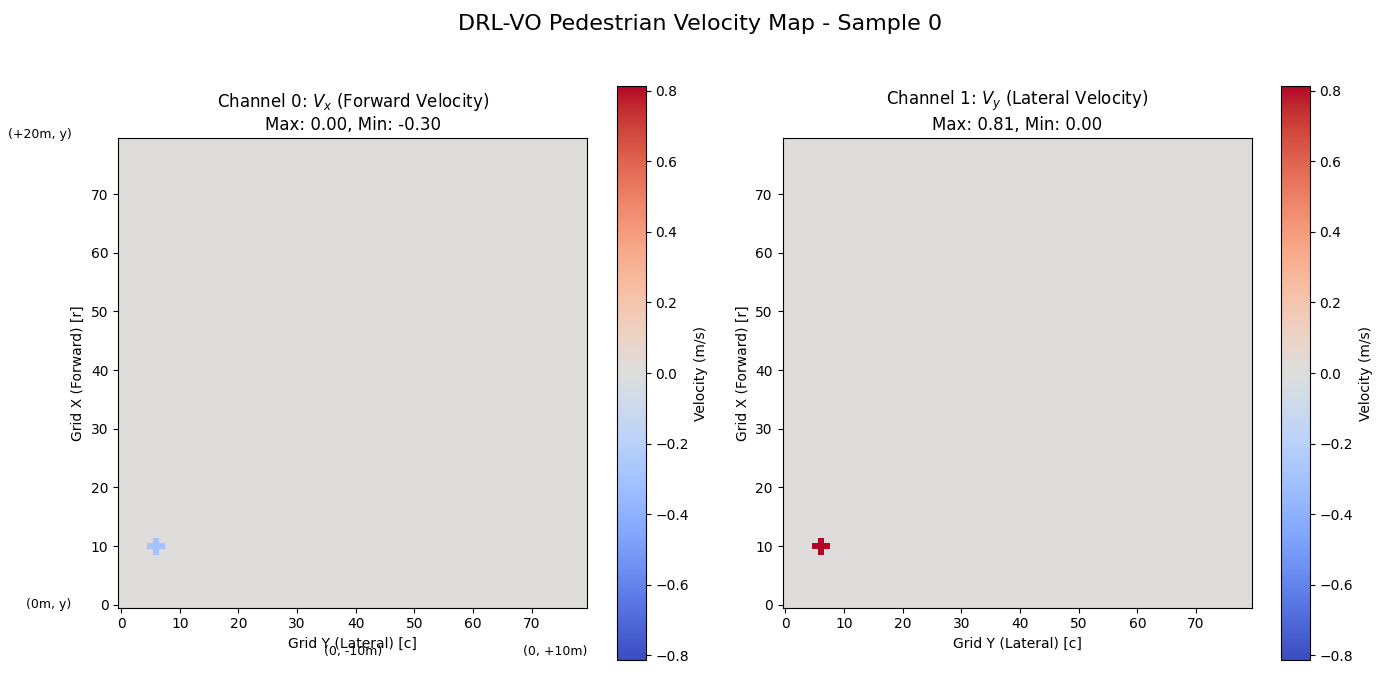
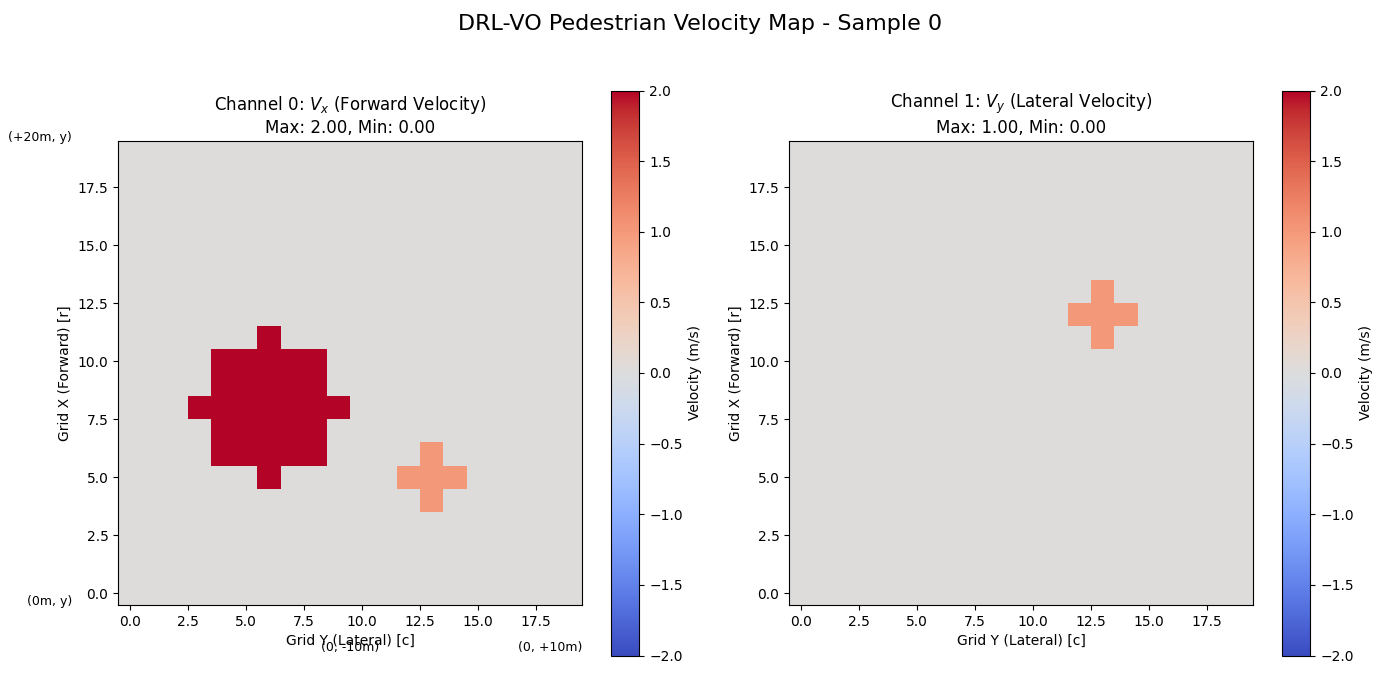
vis drlvo action

diff --git a/isaac_lab_envs/direct/mdp/observations.py b/isaac_lab_envs/direct/mdp/observations.py
@@ -548,8 +548,8 @@ class DrlVoObservationProcessor:
         self.num_envs = cfg.scene.num_envs
 
         # DRL-VO 网格参数
-        self.grid_size = (80, 80)
-        self.grid_res = 1.0  # meters / cell
+        self.grid_size = (20, 20)
+        self.grid_res = 4.0  # meters / cell
         self.grid_shape_m = (80.0, 80.0)  # (x_range, y_range)
 
         # DRL-VO 激光雷达历史参数 [cite: 205, 217]
@@ -603,7 +603,7 @@ class DrlVoObservationProcessor:
         """
         # 1. 计算行人/交通图 (ped_map)
         ped_map = self._compute_ped_map(state)  # [N, 2, 80, 80]
-        # visualize_ped_map(ped_map=ped_map)
+        visualize_ped_map(ped_map=ped_map, vis_idx=5065)
         
         # 2. 计算激光雷达图 (scan_map)
         # scan_map = self._compute_scan_map(state)  # [N, 1, 80, 80]
@@ -627,16 +627,16 @@ class DrlVoObservationProcessor:
         """
         并行计算行人速度图 ( $2 \times 80 \times 80$ )。
         """
-        num_envs = self.num_envs
+        num_envs = state.num_envs
         # 假设 traffic.positions 是全局的 [total_traffic, 3]
         # 并且 EnvState 提供了所有 traffic 的信息
         if state.traffic.traffic_positions.numel() == 0:
-            return torch.zeros((num_envs, 2, 80, 80), device=self.device)
+            return torch.zeros((num_envs, 2, self.grid_size[0], self.grid_size[1]), device=self.device)
 
         # 提取 ego 状态 (世界坐标系)
         robot_pos = state.ego_drone.drone_state[:, :, :2]  # [N, 1, 2]
         robot_yaw = state.ego_drone.drone_state[:, :, 6].unsqueeze(-1)  # [N, 1] (假设第6维是yaw)
-        robot_yaw = torch.zeros((self.num_envs,), device=self.device) # 这个版本里没办法用body系的速度
+        robot_yaw = torch.zeros((num_envs,), device=self.device) # 这个版本里没办法用body系的速度
         
         # 提取 traffic 状态 (世界坐标系)
         # 扩展为 [1, M, 2] 以便与 [N, 1, 2] 广播
@@ -719,8 +719,8 @@ class DrlVoObservationProcessor:
 
         # 5. 写入网格 (使用 index_put_ 以便并行)
         # 这种方法用最后一个写入的值覆盖 (与 DRL-VO 的原始实现行为一致)
-        ped_map_vx = torch.zeros((num_envs, 80, 80), device=self.device)
-        ped_map_vy = torch.zeros((num_envs, 80, 80), device=self.device)
+        ped_map_vx = torch.zeros((num_envs, self.grid_size[0], self.grid_size[1]), device=self.device)
+        ped_map_vy = torch.zeros((num_envs, self.grid_size[0], self.grid_size[1]), device=self.device)
         
         ped_map_vx[flat_batch, flat_r, flat_c] = flat_vx
         ped_map_vy[flat_batch, flat_r, flat_c] = flat_vy
@@ -748,6 +748,7 @@ class DrlVoObservationProcessor:
         """
         # 假设 state.lidar_data.scan 提供了当前帧 [N, num_points]
         # (如果 state.lidar_data.scan_buffer 存在，可以直接使用)
+        num_envs = state.num_envs
         current_scan = state.lidar_data.scan # [N, self.lidar_points]
         
         # 滚动缓冲区
@@ -764,7 +765,7 @@ class DrlVoObservationProcessor:
         scan_features = torch.cat([min_scan, avg_scan], dim=1) # [N, 6400]
         
         # 4. Reshape
-        scan_map = scan_features.view(self.num_envs, 1, 80, 80) # [N, 1, 80, 80]
+        scan_map = scan_features.view(num_envs, 1, 80, 80) # [N, 1, 80, 80]
         
         return scan_map
 
@@ -773,10 +774,11 @@ class DrlVoObservationProcessor:
         计算非 CNN 的向量输入：(相对子目标, 机器人局部速度)
         """
         # 提取 ego 状态 (世界坐标系)
+        num_envs = state.num_envs
         robot_pos = state.ego_drone.drone_state[:, :, :2].squeeze(1)  # [N, 2]
         robot_vel = state.ego_drone.drone_state[:, :, 7:9].squeeze(1) # [N, 2] (假设 7,8 是 vx, vy)
         # robot_yaw = state.ego_drone.drone_state[:, :, 6]            # 
-        robot_yaw = torch.zeros((self.num_envs,), device=self.device) # 这个版本里没办法用body系的速度
+        robot_yaw = torch.zeros((num_envs,), device=self.device) # 这个版本里没办法用body系的速度
 
         # 1. 机器人局部速度
         # 注意：DRL-VO 的动作空间是局部速度 [cite: 289]。
@@ -830,7 +832,7 @@ class DrlVoObservationProcessor:
         
         return vector_input
     
-def visualize_ped_map(ped_map, save_path: str = "pedestrian_map_visualization.png"):
+def visualize_ped_map(ped_map,vis_idx=0, save_path: str = "pedestrian_map_visualization.png"):
     """
     可视化 DRL-VO 观测字典中的行人速度图 (ped_pos)。
 
@@ -850,7 +852,7 @@ def visualize_ped_map(ped_map, save_path: str = "pedestrian_map_visualization.pn
 
         # 2. 选择批次中的第一个样本
         # .detach() 是一个好习惯，以防张量T附带梯度
-        first_sample = cnn_input[0].detach() # 形状: [3, 80, 80]
+        first_sample = cnn_input[vis_idx].detach() # 形状: [3, 80, 80]
 
         # 3. 将数据移动到 CPU 并转换为 NumPy
         # Channel 0 是 Vx, Channel 1 是 Vy

diff --git a/learning/test_vis_model.py b/learning/test_vis_model.py
@@ -15,6 +15,7 @@ from learning.rl.sb3.config import ArgsConfig
 import torch
 from stable_baselines3.common.logger import configure
 from learning.rl.sb3.custom_ppo import CustomPPO
+from stable_baselines3.ppo import PPO
 from learning.rl.sb3.vec_normalize import VecNormalize
 import matplotlib.pyplot as plt
 import matplotlib.lines as mlines
@@ -174,7 +175,7 @@ def generate_fix_traffic(
         # evtol在（0, 15) 速度（2，0），两个drones在（-15，-15）和（15，15），速度（1，0）
     flight_height = cfg.flight_height
     positions = torch.tensor([[0.0, 15.0, flight_height], [15.0, -15.0, flight_height], [-15.0, -15.0, flight_height]], device=device)
-    velocities = torch.tensor([[2.0, 0.0, 0], [-1.0, 0.0, 0], [1.0, 0.0, 0]], device=device)
+    velocities = torch.tensor([[2.0, 0.0, 0], [0.0, 1.0, 0], [1.0, 0.0, 0]], device=device)
     types = torch.tensor([2, 1, 1], dtype=torch.long, device=device)
     radii = torch.tensor([cfg.traffic_sim.evtol.safety_radius, cfg.traffic_sim.drone.safety_radius, cfg.traffic_sim.drone.safety_radius], device=device)
     return positions, velocities, types, radii
@@ -184,7 +185,7 @@ def main():
     # 创建参数解析器
     parser = argparse.ArgumentParser(description="Test trained SB3 model with vector-field visualization")
     parser.add_argument("--model_dir", type=str, 
-                        default="runs/traffic/future_penalty/u10e2_r8.0/split_attn/fu-2.0fe-2.0_nopath_1029_152311",
+                        default="runs/traffic_standard/drlvo/u10e0_r8.0_1103_205401",
                        help="Path to the trained model directory")
     parser.add_argument("--model_name", type=str, default="final_model.zip", help="Model name")
     parser.add_argument("--num_episodes", type=int, default=500, help="Number of episodes for evaluation")
@@ -270,6 +271,8 @@ def main():
         for key in loaded_keys:
             if hasattr(yaml_cfg, key):
                 setattr(cfg, key, getattr(yaml_cfg, key))
+    if "use_drl_vo" in yaml_cfg.__dict__:
+        cfg.use_drl_vo = yaml_cfg.use_drl_vo
     # traffic：所有 env 共享同一组 traffic（位置/速度/类型/半径）
     traffic_pos, traffic_vel, traffic_types, traffic_radii = generate_fix_traffic(
         cfg,
@@ -353,12 +356,15 @@ def main():
         # 测试时不更新归一化统计
         env.training = False
         env.norm_reward = False
+    if cfg.use_drl_vo:
+        pass
+    else:
+        algo_args.robot_node_input_size = base_env.observation_space['robot_node'].shape[-1] + base_env.observation_space['temporal_edges'].shape[-1]
 
-    algo_args.robot_node_input_size = base_env.observation_space['robot_node'].shape[-1] + base_env.observation_space['temporal_edges'].shape[-1]
+        algo_args.human_human_edge_input_size = base_env.observation_space['spatial_edges'].shape[-1] 
 
-    algo_args.human_human_edge_input_size = base_env.observation_space['spatial_edges'].shape[-1] 
-
-    model = CustomPPO.load(model_file, env=env, args=algo_args)
+    # model = CustomPPO.load(model_file, env=env, args=algo_args)
+    model = PPO.load(model_file, env=env)
 
 
 
@@ -423,12 +429,16 @@ def main():
     state.update_reached_target_mask(base_env.cfg.arrival_threshold)
     if base_env.cfg.use_global_path:
         state.update_navigation_state_vectorized(base_env.cfg.lookahead_distance)
-
+    state.traffic.traffic_positions = traffic_pos
+    state.traffic.traffic_velocities = traffic_vel
+    state.traffic.traffic_types = traffic_types
+    state.traffic.traffic_safety_radius = traffic_radii
 
     
 
-    # 直接写入观测处理器缓存
-    base_env.obs_processor.predict_traffic_trajectory(traffic_pos, traffic_vel, traffic_types, traffic_radii)
+    # # 直接写入观测处理器缓存
+    if hasattr(base_env.obs_processor, "predict_traffic_trajectory"):
+        base_env.obs_processor.predict_traffic_trajectory(traffic_pos, traffic_vel, traffic_types, traffic_radii)
 
     # 生成观测（取内层 'policy'）
     observations = base_env.obs_processor.process_observation(state)["policy"]

diff --git a/learning/train_traffic_standard.py b/learning/train_traffic_standard.py
@@ -397,37 +397,37 @@ def main():
     print(f"configuration files saved:")
     print(f"- env_config: {os.path.join(save_dir, 'env_config.yaml')}")
     print(f"- training_args: {os.path.join(save_dir, 'training_args.yaml')}")
-    try:
+    # try:
         # Start training
-        start_time = time.time()
-        model.learn(
-            total_timesteps=args.total_timesteps,
-            callback=callbacks,
-            log_interval=getattr(args, 'log_interval', 10)
-        )
-        end_time = time.time()
-        
-        # Save final model
-        model_path = os.path.join(save_dir, "final_model")
-        model.save(model_path)
-        model.get_vec_normalize_env().save(os.path.join(save_dir, "final_model_vecnormalize.pkl"))
-        
-        # Save normalization parameters if used
-        if hasattr(env, 'save'):
-            env.save(os.path.join(save_dir, "final_model_vecnormalize.pkl"))
-        
-        print(f"\ntraining completed!")
-        print(f"training time: {(end_time - start_time) / 3600:.2f} hours")
-        print(f"final model saved to: {model_path}")
-        
-        # Finish wandb run
-        if args.use_wandb and WANDB_AVAILABLE:
-            wandb.save(model_path + ".zip")
-            wandb.finish()
-    finally:
-        # Clean up
-        env.close()
-        simulation_app.close()
+    start_time = time.time()
+    model.learn(
+        total_timesteps=args.total_timesteps,
+        callback=callbacks,
+        log_interval=getattr(args, 'log_interval', 10)
+    )
+    end_time = time.time()
+    
+    # Save final model
+    model_path = os.path.join(save_dir, "final_model")
+    model.save(model_path)
+    model.get_vec_normalize_env().save(os.path.join(save_dir, "final_model_vecnormalize.pkl"))
+    
+    # Save normalization parameters if used
+    if hasattr(env, 'save'):
+        env.save(os.path.join(save_dir, "final_model_vecnormalize.pkl"))
+    
+    print(f"\ntraining completed!")
+    print(f"training time: {(end_time - start_time) / 3600:.2f} hours")
+    print(f"final model saved to: {model_path}")
+    
+    # Finish wandb run
+    if args.use_wandb and WANDB_AVAILABLE:
+        wandb.save(model_path + ".zip")
+        wandb.finish()
+    # finally:
+    #     # Clean up
+    env.close()
+    simulation_app.close()
 
 
 if __name__ == "__main__":
